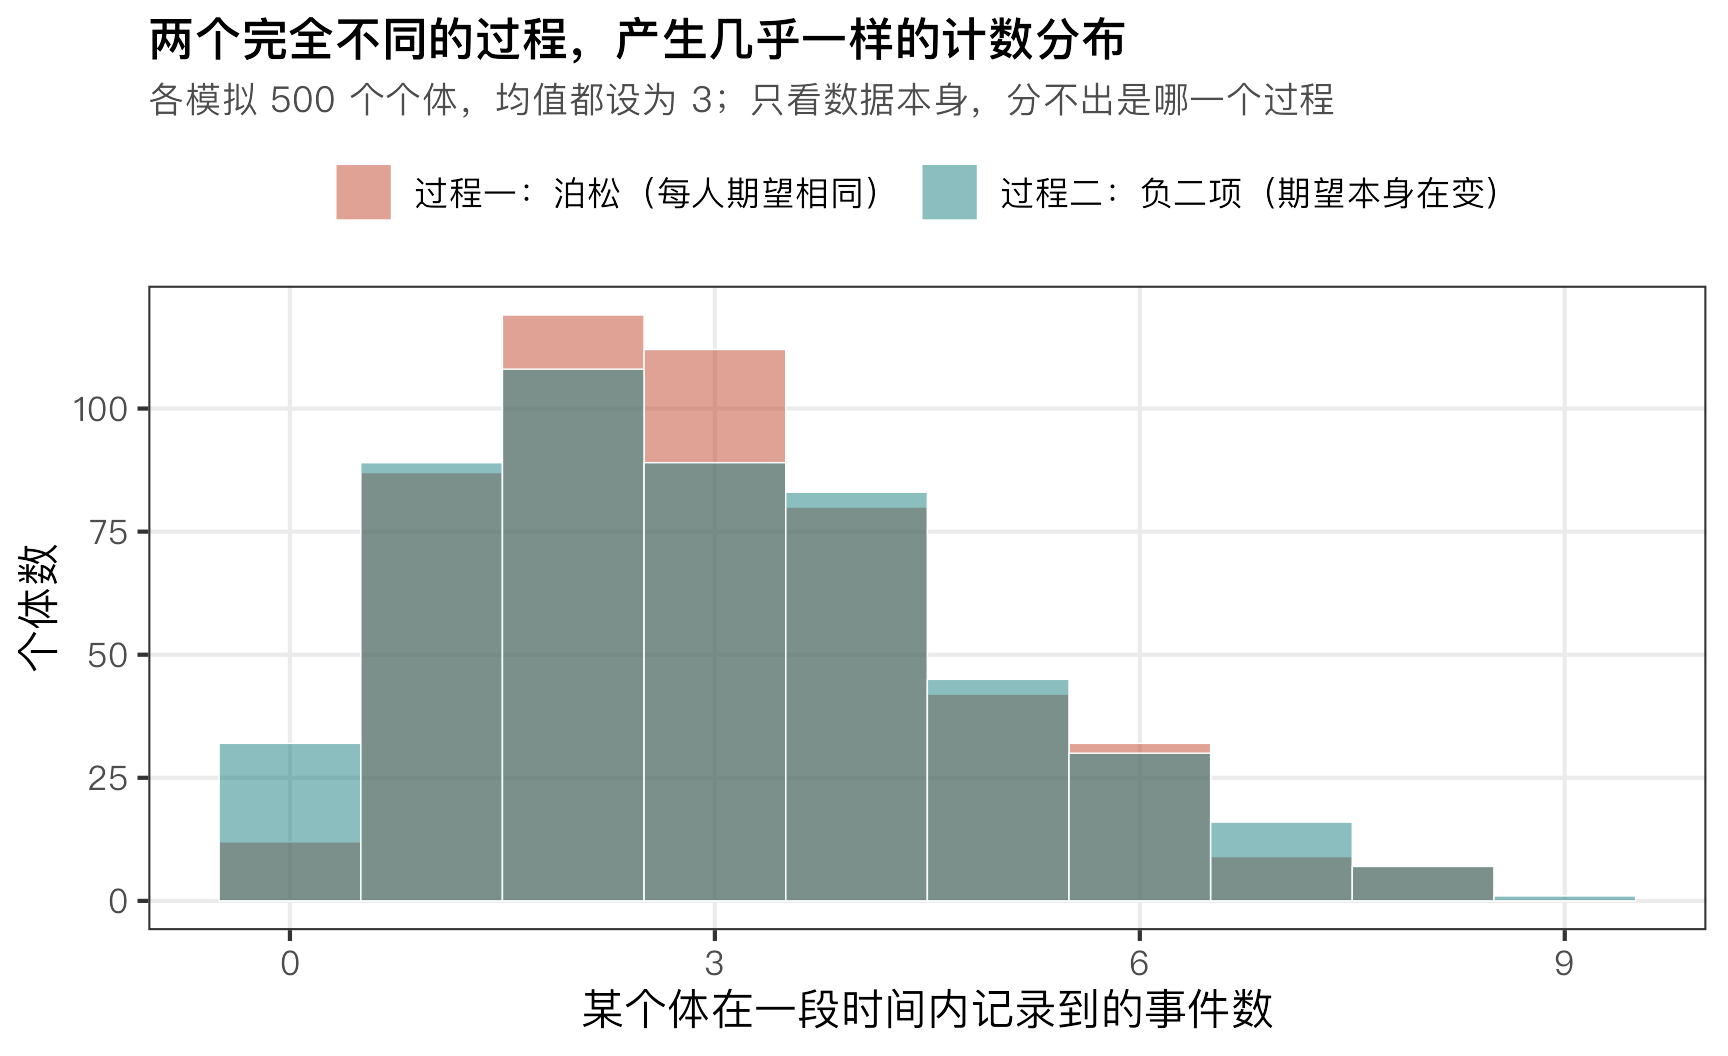
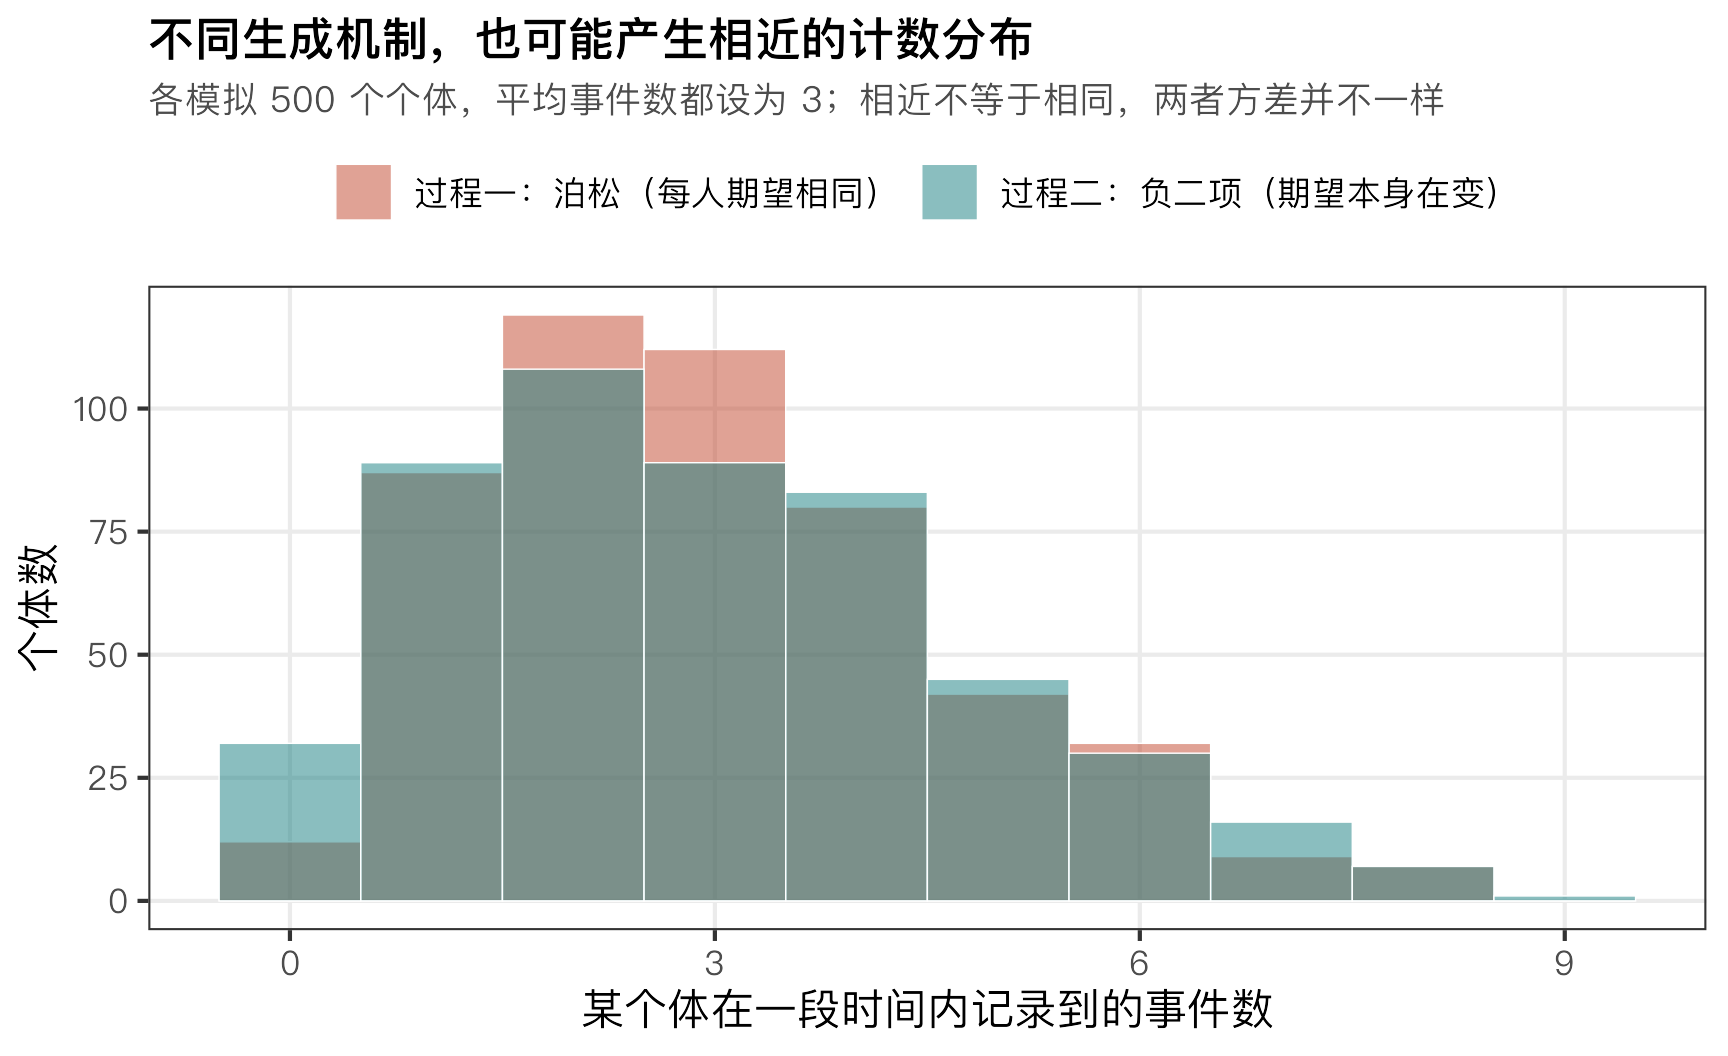
Revise Rethinking article 01 after Codex review: discrete credible interval note, grid mode fix, figure labels

Changed region(s): [[0.0625, 0.0, 0.8438, 0.125]]

diff --git a/rethinking/article01_bayesian_workflow/代码/篇01_科学先于统计.py b/rethinking/article01_bayesian_workflow/代码/篇01_科学先于统计.py
@@ -22,14 +22,22 @@ os.makedirs(OUT, exist_ok=True)
 os.makedirs(RES, exist_ok=True)
 
 
-def grid_approx(W, N, n_grid=20):
-    """网格近似：先验 × 似然 → 归一化后验（与 R 的 grid_approx 一一对应）"""
+def grid_approx(W, N, n_grid=20, prior_type="flat"):
+    """网格近似：先验 × 似然 → 归一化后验（与 R 的 grid_approx 一一对应）
+    prior_type="flat" 平坦先验；"triangular" 偏向 0.5 的三角形先验（正文练习 2）"""
     p = np.linspace(0, 1, n_grid)
-    prior = np.ones(n_grid)                       # 平坦先验
+    if prior_type == "flat":
+        prior = np.ones(n_grid)
+    else:
+        prior = np.where(p < 0.5, p / 0.5, (1 - p) / 0.5)
     like = binom.pmf(W, N, p)
     post = like * prior
     post = post / post.sum()
     return p, prior / prior.sum(), like / like.sum(), post
+
+
+# 练习 2 一行启用：
+# print(grid_approx(6, 9, prior_type="triangular")[0:1], grid_approx(6, 9, prior_type="triangular")[3])
 
 
 cases = [(2, 3), (6, 9), (20, 30)]
@@ -71,13 +79,13 @@ ax[0].plot(p, prior, color="#8a8a8a", lw=1.6, marker="o", ms=3, label="先验（
 ax[0].plot(p, like, color="#c1462c", lw=1.4, ls="--", label="似然（数据说什么）")
 ax[0].plot(p, post, color="#167d80", lw=1.6, marker="o", ms=3, label="后验（看完之后）")
 ax[0].set(title="把 20 个候选比例各自算一遍，就得到后验",
-          xlabel="水面比例 p", ylabel="相对密度（各自归一化）")
+          xlabel="水面比例 p", ylabel="归一化权重")
 ax[0].legend(loc="upper center", ncol=3, fontsize=8, frameon=False,
              bbox_to_anchor=(0.5, 1.22))
 for name, pp, _, _, po in curves:
     ax[1].plot(pp, po, lw=1.8, label=name)
 ax[1].set(title="观测比例都是 2/3，样本越多，后验越尖",
-          xlabel="水面比例 p", ylabel="后验密度")
+          xlabel="水面比例 p", ylabel="网格点后验概率")
 ax[1].legend(loc="upper center", ncol=3, fontsize=8, frameon=False,
              bbox_to_anchor=(0.5, 1.22))
 for a in ax:

diff --git a/rethinking/article01_bayesian_workflow/代码/篇01_科学先于统计.m b/rethinking/article01_bayesian_workflow/代码/篇01_科学先于统计.m
@@ -26,7 +26,13 @@ curves = cell(size(cases, 1), 4);
 for i = 1:size(cases, 1)
     W = cases(i, 1); N = cases(i, 2);
     p = linspace(0, 1, nGrid)';            % 网格：20 个候选比例
-    prior = ones(nGrid, 1);                % 平坦先验
+    % 先验：默认平坦；练习 2 把下一行的 "flat" 改成 "triangular"（偏向 0.5 的三角形先验）
+    priorType = "flat";
+    if priorType == "flat"
+        prior = ones(nGrid, 1);
+    else
+        prior = min(p ./ 0.5, (1 - p) ./ 0.5);
+    end
     like  = binopdf(W, N, p);              % 似然
     post  = like .* prior;
     post  = post / sum(post);              % 归一化
@@ -69,7 +75,7 @@ plot(curves{2,2}, curves{2,3}, '--', 'Color', [0.76 0.27 0.17], 'LineWidth', 1.4
 plot(curves{2,2}, curves{2,4}, '-o', 'Color', [0.09 0.49 0.50], 'LineWidth', 1.4, 'MarkerSize', 3);
 hold off; box off; grid on
 title('把 20 个候选比例各自算一遍，就得到后验', 'FontWeight', 'bold', 'FontSize', 12);
-xlabel('水面比例 p'); ylabel('相对密度（各自归一化）');
+xlabel('水面比例 p'); ylabel('归一化权重');
 legend({'先验（还没看数据）','似然（数据说什么）','后验（看完之后）'}, ...
        'Location','northoutside','Orientation','horizontal','Box','off','FontSize',8);
 
@@ -81,8 +87,8 @@ for i = 1:size(cases, 1)
     lg{end+1} = curves{i,1};
 end
 hold off; box off; grid on
-title('观测比例都是 2/3，样本越多，后验越尖', 'FontWeight', 'bold', 'FontSize', 12);
-xlabel('水面比例 p'); ylabel('后验密度');
+title('观测比例都是 2/3，样本越多，后验越集中', 'FontWeight', 'bold', 'FontSize', 12);
+xlabel('水面比例 p'); ylabel('网格点后验概率');
 legend(lg, 'Location','northoutside','Orientation','horizontal','Box','off','FontSize',8);
 
 exportgraphics(f, fullfile(OUT, '07-MATLAB版-先验似然后验与收窄.png'), 'Resolution', 240);

diff --git a/rethinking/article01_bayesian_workflow/VALIDATION.md b/rethinking/article01_bayesian_workflow/VALIDATION.md
@@ -46,3 +46,38 @@
 | MATLAB | R2025a | Statistics and Machine Learning Toolbox |
 
 三个语言都跑通、结果一致后，才把数字写进公众号正文。
+
+## 5. 2026-10-01 修订：离散区间、网格众数与两处表述（Codex 评审后复算）
+
+评审指出三处需要更精确的表述，已逐条复算并采纳。
+
+### 5.1 20 点离散后验的"89% 区间"实际包含多少概率
+
+脚本按"后验累积和首次 ≥ 5.5% / ≥ 94.5%"取网格点，端点上的概率质量不能切开，所以闭区间实际包含的概率会超过 89%：
+
+| 观测 | 表中区间 | 实际包含的后验概率 | 左端外 | 右端外 |
+|---|---|---:|---:|---:|
+| 3 次里 2 次是水 | 0.2632 – 0.8947 | 0.9267 | 0.0434 | 0.0299 |
+| 9 次里 6 次是水 | 0.4211 – 0.8421 | 0.9188 | 0.0501 | 0.0311 |
+| 30 次里 20 次是水 | 0.5263 – 0.7895 | 0.9505 | 0.0334 | 0.0161 |
+
+正文因此把该列标为"89% 等尾可信区间（20 点网格近似）"，并写明实际包含的概率与"计算精度 ≠ 统计推断"。
+
+### 5.2 网格众数与连续众数
+
+- 连续后验的众数是 2/3；20 点网格不包含 2/3，最大后验权重落在 13/19 ≈ 0.684211，即网格的**第 14 个点**（网格从 0/19, 1/19, …, 19/19）。
+- 加密网格让计算结果更靠近**连续后验的众数**，不会增加数据提供的信息。MCMC 的动机是参数多、后验形状复杂时网格法代价过高。
+
+### 5.3 图 1 的两个分布并不相同
+
+泊松(λ=3) 方差 = 3；负二项(size=20, μ=3) 方差 = 3 + 3²/20 = 3.45。全变差距离 0.035176 是**单个计数分布**之间的距离，不是 500 个观测联合分布的距离。因此正文不再由该图推出"数据无法区分两个机制"，只保留"相近 ≠ 相同、拟合好 ≠ 机制对"。
+
+### 5.4 图 4 的红线
+
+红色虚线是**归一化后**的似然权重（L_i / ΣL_j），不是原始二项似然；它不构成参数的概率分布。平坦先验下，归一化似然与后验重合。据此图 4 纵轴改为"归一化权重"，图 5 纵轴改为"网格点后验概率"。
+
+### 5.5 复算时的两个格式注意
+
+- 三个语言的 CSV **数据行完全相同**（md5 `98ef8445a623ff6f694fc2340e3155c2`）；R 写出的表头带引号，所以整文件 md5 与 Python／MATLAB 不同，比对时要只看数据行。
+- 练习 2 的三角形先验已内置：R 用 `grid_approx(6, 9, prior_type = "triangular")`，Python 同签名（`prior_type="triangular"`），MATLAB 把 `priorType` 改成 `"triangular"`。
+
